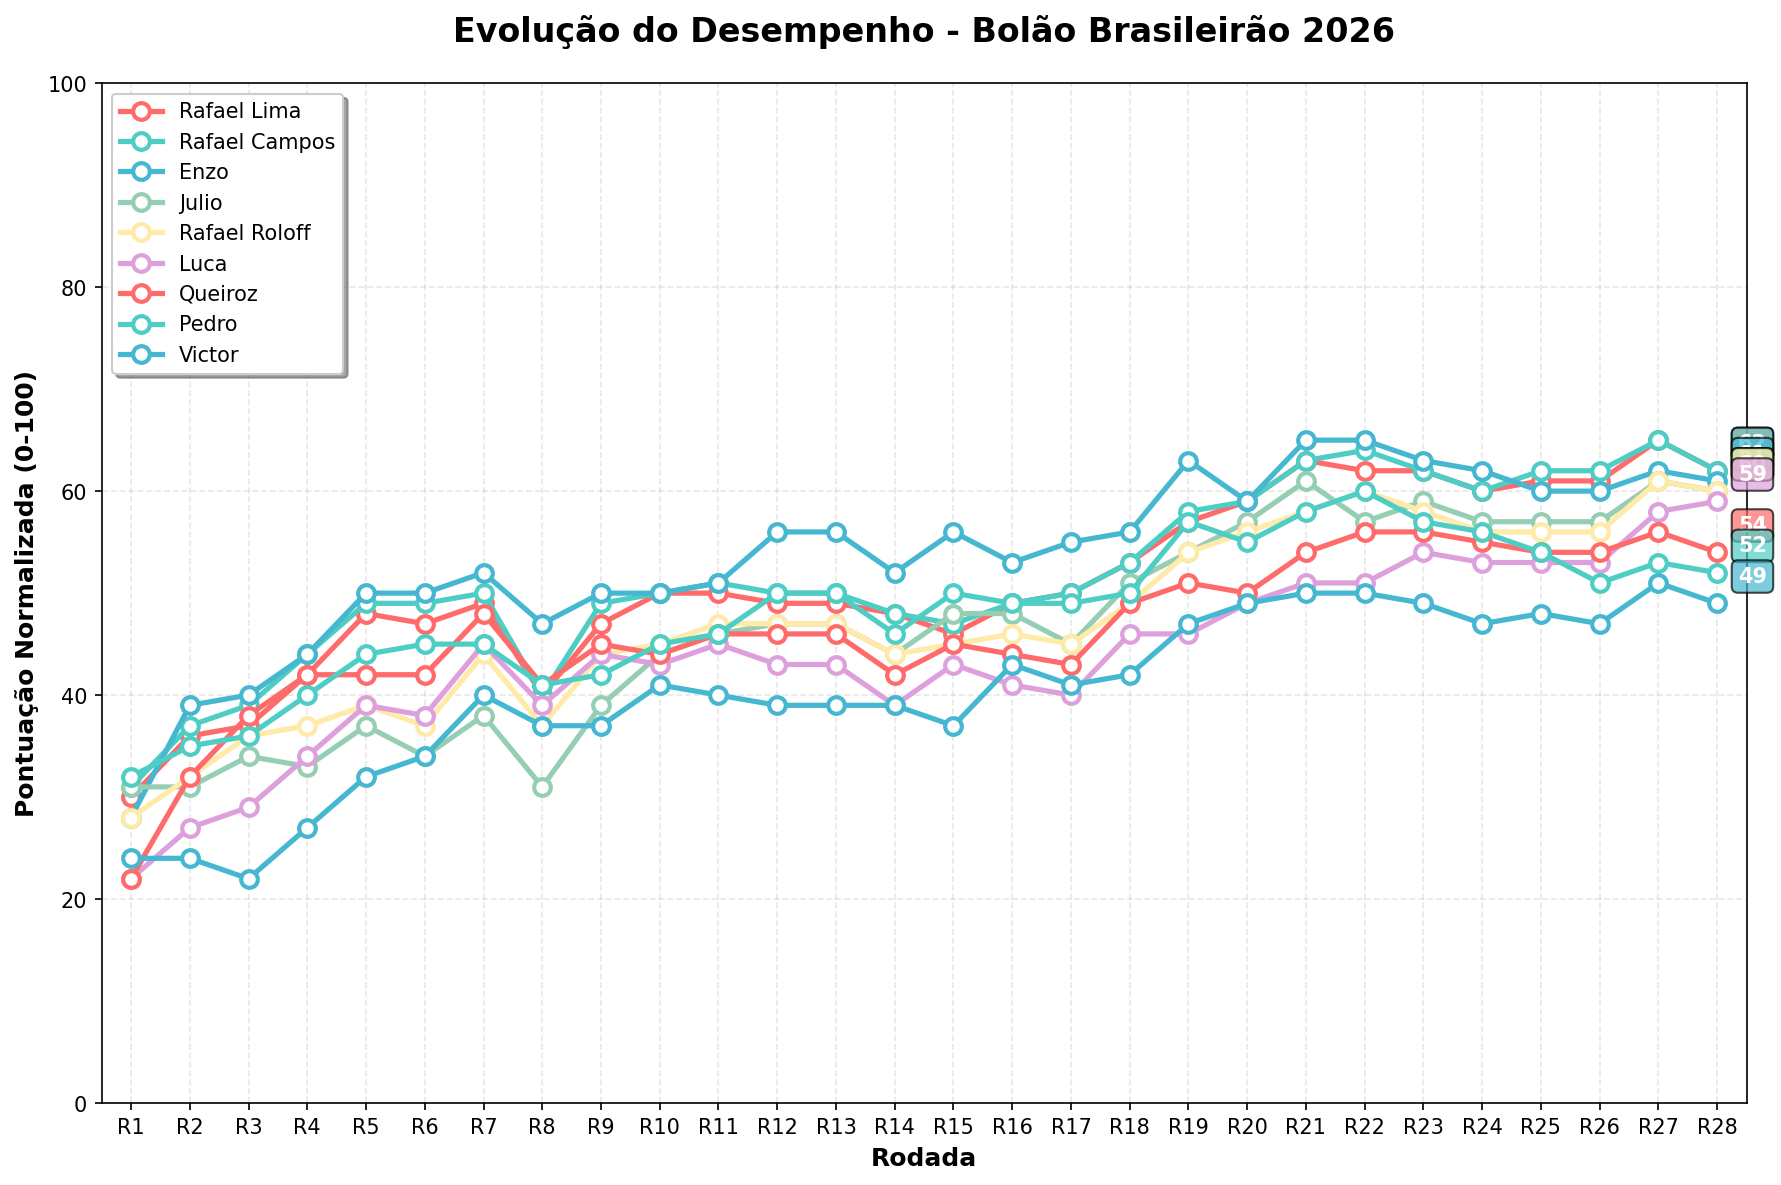
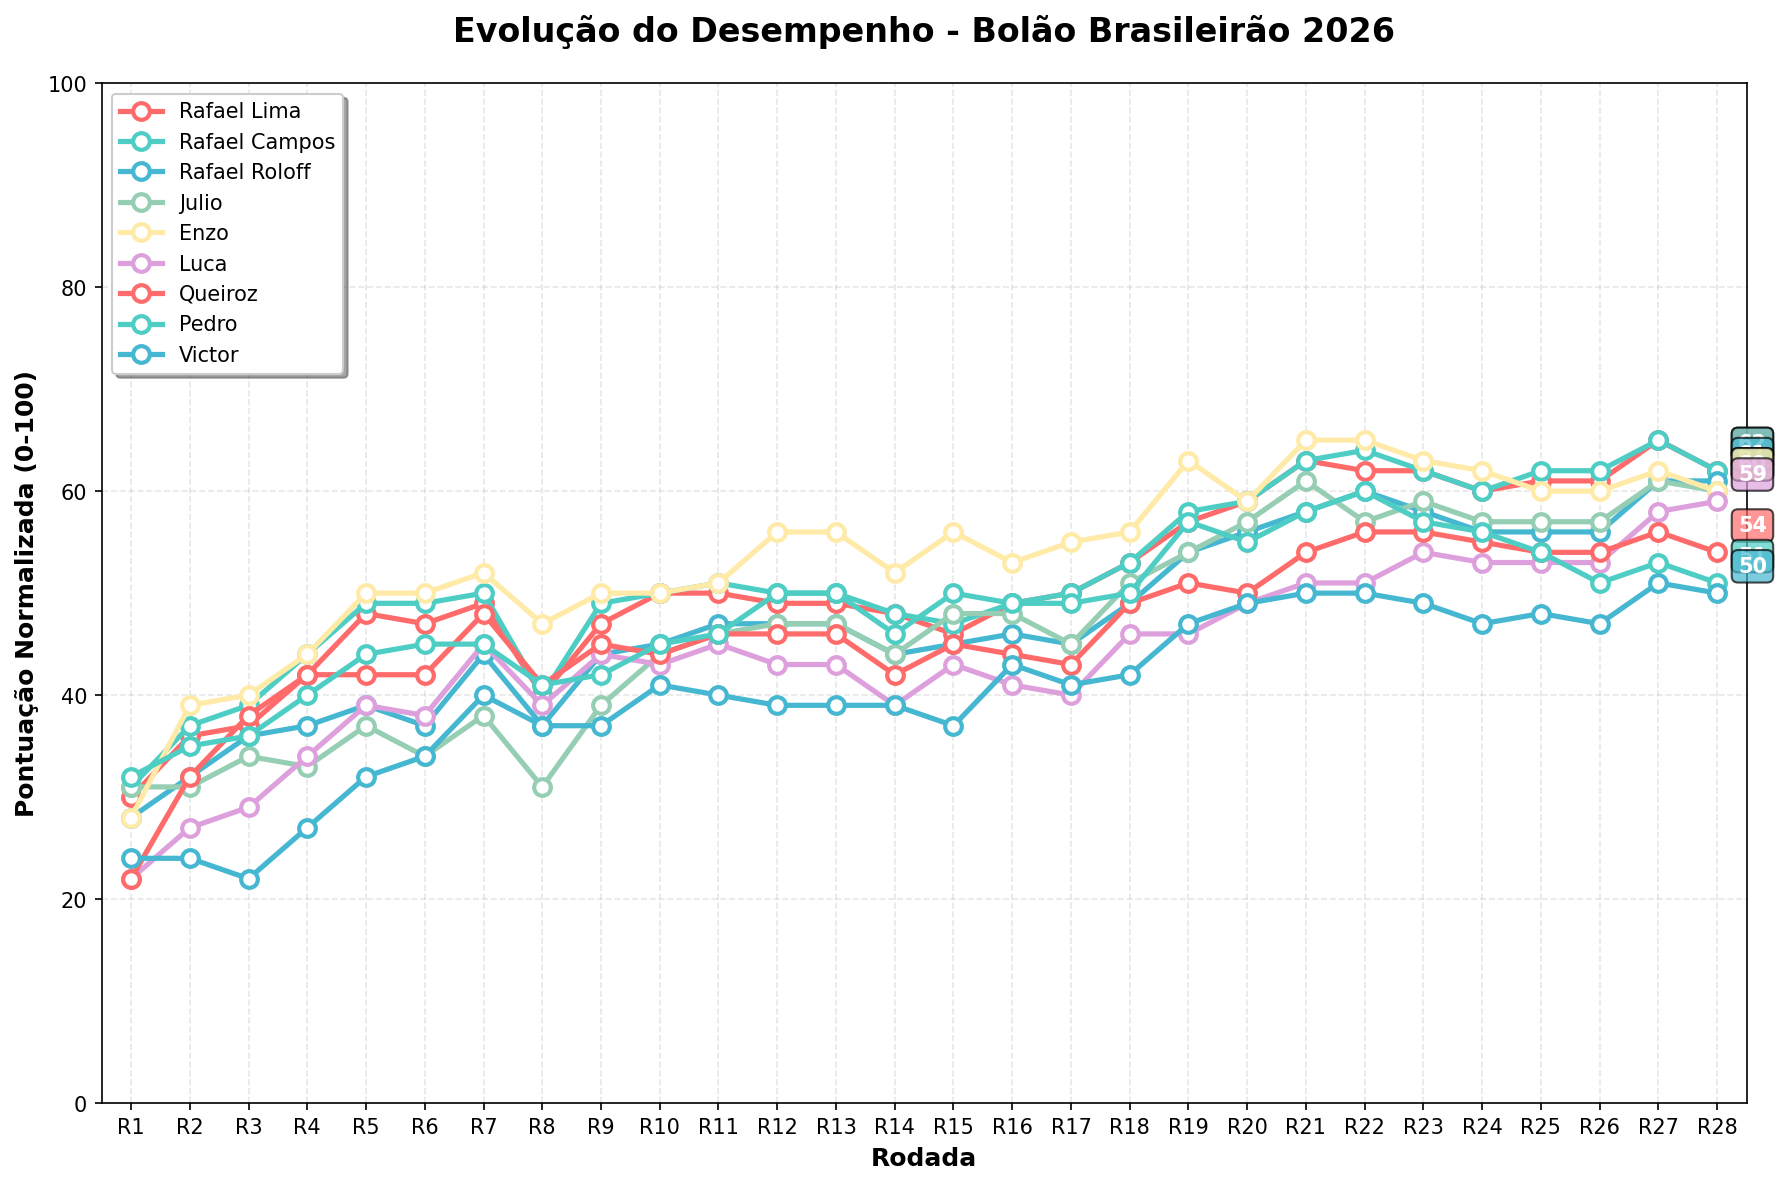
Atualizacao automatica - 05/10/2026 11:00:04,83

diff --git a/README.md b/README.md
@@ -2,71 +2,71 @@
 
 ## 🏆 Resultados Atuais
 
-**Última Atualização:** 2026-10-03 11:00:04
+**Última Atualização:** 2026-10-05 11:00:04
 
-| Time | Real | Rafael Lima | Rafael Campos | Enzo | Julio | Rafael Roloff | Luca | Queiroz | Pedro | Victor |
+| Time | Real | Rafael Lima | Rafael Campos | Rafael Roloff | Julio | Enzo | Luca | Queiroz | Pedro | Victor |
 |------|------|------|------|------|------|------|------|------|------|------|
 | Flamengo | 1 | 1°(20p) | 1°(20p) | 1°(20p) | 1°(20p) | 1°(20p) | 1°(20p) | 1°(20p) | 2°(19p) | 1°(20p) |
 | Palmeiras | 2 | 3°(19p) | 3°(19p) | 2°(20p) | 2°(20p) | 2°(20p) | 3°(19p) | 3°(19p) | 3°(19p) | 3°(19p) |
 | Atlético-PR | 3 | 17°(6p) | 17°(6p) | 17°(6p) | 17°(6p) | 17°(6p) | 17°(6p) | 15°(8p) | 18°(5p) | 13°(10p) |
-| Fluminense | 4 | 6°(18p) | 7°(17p) | 4°(20p) | 7°(17p) | 8°(16p) | 8°(16p) | 7°(17p) | 4°(20p) | 10°(14p) |
-| Bahia | 5 | 4°(19p) | 4°(19p) | 5°(20p) | 5°(20p) | 6°(19p) | 5°(20p) | 4°(19p) | 7°(18p) | 9°(16p) |
+| Fluminense | 4 | 6°(18p) | 7°(17p) | 8°(16p) | 7°(17p) | 4°(20p) | 8°(16p) | 7°(17p) | 4°(20p) | 10°(14p) |
+| Bahia | 5 | 4°(19p) | 4°(19p) | 6°(19p) | 5°(20p) | 5°(20p) | 5°(20p) | 4°(19p) | 7°(18p) | 9°(16p) |
 | Cruzeiro | 6 | 2°(16p) | 2°(16p) | 3°(17p) | 3°(17p) | 3°(17p) | 2°(16p) | 2°(16p) | 1°(15p) | 7°(19p) |
-| Santos | 7 | 12°(15p) | 13°(14p) | 11°(16p) | 12°(15p) | 9°(18p) | 7°(20p) | 13°(14p) | 11°(16p) | 11°(16p) |
-| Atlético-MG | 8 | 5°(17p) | 5°(17p) | 12°(16p) | 4°(16p) | 4°(16p) | 4°(16p) | 9°(19p) | 13°(15p) | 2°(14p) |
-| Coritiba | 9 | 16°(13p) | 16°(13p) | 15°(14p) | 19°(10p) | 14°(15p) | 20°(9p) | 12°(17p) | 19°(10p) | 20°(9p) |
-| Bragantino | 10 | 10°(20p) | 10°(20p) | 6°(16p) | 10°(20p) | 13°(17p) | 13°(17p) | 18°(12p) | 9°(19p) | 15°(15p) |
-| São Paulo | 11 | 14°(17p) | 12°(19p) | 16°(15p) | 15°(16p) | 16°(15p) | 14°(17p) | 17°(14p) | 15°(16p) | 16°(15p) |
-| Botafogo | 12 | 8°(16p) | 9°(17p) | 10°(18p) | 6°(14p) | 7°(15p) | 11°(19p) | 11°(19p) | 5°(13p) | 5°(13p) |
+| Atlético-MG | 7 | 5°(18p) | 5°(18p) | 4°(17p) | 4°(17p) | 12°(15p) | 4°(17p) | 9°(18p) | 13°(14p) | 2°(15p) |
+| Santos | 8 | 12°(16p) | 13°(15p) | 9°(19p) | 12°(16p) | 11°(17p) | 7°(19p) | 13°(15p) | 11°(17p) | 11°(17p) |
+| Coritiba | 9 | 16°(13p) | 16°(13p) | 14°(15p) | 19°(10p) | 15°(14p) | 20°(9p) | 12°(17p) | 19°(10p) | 20°(9p) |
+| São Paulo | 10 | 14°(16p) | 12°(18p) | 16°(14p) | 15°(15p) | 16°(14p) | 14°(16p) | 17°(13p) | 15°(15p) | 16°(14p) |
+| Bragantino | 11 | 10°(19p) | 10°(19p) | 13°(18p) | 10°(19p) | 6°(15p) | 13°(18p) | 18°(13p) | 9°(18p) | 15°(16p) |
+| Botafogo | 12 | 8°(16p) | 9°(17p) | 7°(15p) | 6°(14p) | 10°(18p) | 11°(19p) | 11°(19p) | 5°(13p) | 5°(13p) |
 | Vitória | 13 | 18°(15p) | 18°(15p) | 18°(15p) | 16°(17p) | 18°(15p) | 18°(15p) | 19°(14p) | 17°(16p) | 17°(16p) |
-| Corinthians | 14 | 9°(15p) | 8°(14p) | 8°(14p) | 9°(15p) | 5°(11p) | 10°(16p) | 6°(12p) | 8°(14p) | 8°(14p) |
-| Mirassol | 15 | 11°(16p) | 11°(16p) | 13°(18p) | 8°(13p) | 10°(15p) | 12°(17p) | 8°(13p) | 12°(17p) | 14°(19p) |
-| Vasco | 16 | 15°(19p) | 14°(18p) | 9°(13p) | 11°(15p) | 11°(15p) | 9°(13p) | 10°(14p) | 10°(14p) | 12°(16p) |
-| Grêmio | 17 | 7°(10p) | 6°(9p) | 7°(10p) | 18°(19p) | 12°(15p) | 6°(9p) | 5°(8p) | 6°(9p) | 4°(7p) |
-| Internacional | 18 | 13°(15p) | 15°(17p) | 14°(16p) | 14°(16p) | 15°(17p) | 15°(17p) | 14°(16p) | 14°(16p) | 6°(8p) |
+| Corinthians | 14 | 9°(15p) | 8°(14p) | 5°(11p) | 9°(15p) | 8°(14p) | 10°(16p) | 6°(12p) | 8°(14p) | 8°(14p) |
+| Mirassol | 15 | 11°(16p) | 11°(16p) | 10°(15p) | 8°(13p) | 13°(18p) | 12°(17p) | 8°(13p) | 12°(17p) | 14°(19p) |
+| Vasco | 16 | 15°(19p) | 14°(18p) | 11°(15p) | 11°(15p) | 9°(13p) | 9°(13p) | 10°(14p) | 10°(14p) | 12°(16p) |
+| Grêmio | 17 | 7°(10p) | 6°(9p) | 12°(15p) | 18°(19p) | 7°(10p) | 6°(9p) | 5°(8p) | 6°(9p) | 4°(7p) |
+| Internacional | 18 | 13°(15p) | 15°(17p) | 15°(17p) | 14°(16p) | 14°(16p) | 15°(17p) | 14°(16p) | 14°(16p) | 6°(8p) |
 | Remo | 19 | 20°(19p) | 20°(19p) | 20°(19p) | 13°(14p) | 20°(19p) | 16°(17p) | 16°(17p) | 16°(17p) | 19°(20p) |
 | Chapecoense | 20 | 19°(19p) | 19°(19p) | 19°(19p) | 20°(20p) | 19°(19p) | 19°(19p) | 20°(20p) | 20°(20p) | 18°(18p) |
-| **TOTAL** | | **327** | **327** | **325** | **323** | **323** | **321** | **311** | **308** | **301** |
+| **TOTAL** | | **327** | **327** | **325** | **323** | **323** | **321** | **311** | **306** | **303** |
 
 ### 🏅 Classificação Atual (pontuação normalizada 0-100)
 
 🥇 **Rafael Lima** (+3): 62 pontos<br>
 🥈 **Rafael Campos** (+3): 62 pontos<br>
-🥉 **Enzo** (+3): 61 pontos<br>
+🥉 **Rafael Roloff** (+3): 61 pontos<br>
 4. **Julio** (+3): 60 pontos<br>
-5. **Rafael Roloff** (+3): 60 pontos<br>
+5. **Enzo** (+3): 60 pontos<br>
 6. **Luca** (+3): 59 pontos<br>
 7. **Queiroz** (+3): 54 pontos<br>
-8. **Pedro**: 52 pontos<br>
-9. **Victor** (+3): 49 pontos<br>
+8. **Pedro**: 51 pontos<br>
+9. **Victor** (+3): 50 pontos<br>
 
 ### 📈 Histórico de Desempenho
 
 ![Gráfico de Performance](performance_chart.png)
 
-| Rodada | Rafael Lima | Rafael Campos | Enzo | Julio | Rafael Roloff | Luca | Queiroz | Pedro | Victor |
+| Rodada | Rafael Lima | Rafael Campos | Rafael Roloff | Julio | Enzo | Luca | Queiroz | Pedro | Victor |
 |-------|-------|-------|-------|-------|-------|-------|-------|-------|-------|
-| R19 | 57 | 58 | 63 | 54 | 54 | 46 | 51 | 57 | 47 |
-| R20 | 59 | 59 | 59 | 57 | 56 | 49 | 50 | 55 | 49 |
-| R21 | 63 | 63 | 65 | 61 | 58 | 51 | 54 | 58 | 50 |
-| R22 | 62 | 64 | 65 | 57 | 60 | 51 | 56 | 60 | 50 |
-| R23 | 62 | 62 | 63 | 59 | 58 | 54 | 56 | 57 | 49 |
-| R24 | 60 | 60 | 62 | 57 | 56 | 53 | 55 | 56 | 47 |
-| R25 | 61 | 62 | 60 | 57 | 56 | 53 | 54 | 54 | 48 |
-| R26 | 61 | 62 | 60 | 57 | 56 | 53 | 54 | 51 | 47 |
-| R27 | 65 | 65 | 62 | 61 | 61 | 58 | 56 | 53 | 51 |
-| R28 | 62 | 62 | 61 | 60 | 60 | 59 | 54 | 52 | 49 |
+| R19 | 57 | 58 | 54 | 54 | 63 | 46 | 51 | 57 | 47 |
+| R20 | 59 | 59 | 56 | 57 | 59 | 49 | 50 | 55 | 49 |
+| R21 | 63 | 63 | 58 | 61 | 65 | 51 | 54 | 58 | 50 |
+| R22 | 62 | 64 | 60 | 57 | 65 | 51 | 56 | 60 | 50 |
+| R23 | 62 | 62 | 58 | 59 | 63 | 54 | 56 | 57 | 49 |
+| R24 | 60 | 60 | 56 | 57 | 62 | 53 | 55 | 56 | 47 |
+| R25 | 61 | 62 | 56 | 57 | 60 | 53 | 54 | 54 | 48 |
+| R26 | 61 | 62 | 56 | 57 | 60 | 53 | 54 | 51 | 47 |
+| R27 | 65 | 65 | 61 | 61 | 62 | 58 | 56 | 53 | 51 |
+| R28 | 62 | 62 | 61 | 60 | 60 | 59 | 54 | 51 | 50 |
 
 **Tendência (últimas 2 medições):**
 - **Rafael Lima**: 📉 -3
 - **Rafael Campos**: 📉 -3
-- **Enzo**: 📉 -1
+- **Rafael Roloff**: ➡ =0
 - **Julio**: 📉 -1
-- **Rafael Roloff**: 📉 -1
+- **Enzo**: 📉 -2
 - **Luca**: 📈 +1
 - **Queiroz**: 📉 -2
-- **Pedro**: 📉 -1
-- **Victor**: 📉 -2
+- **Pedro**: 📉 -2
+- **Victor**: 📉 -1
 
 ## 🎯 Sistema de Pontuação
 
